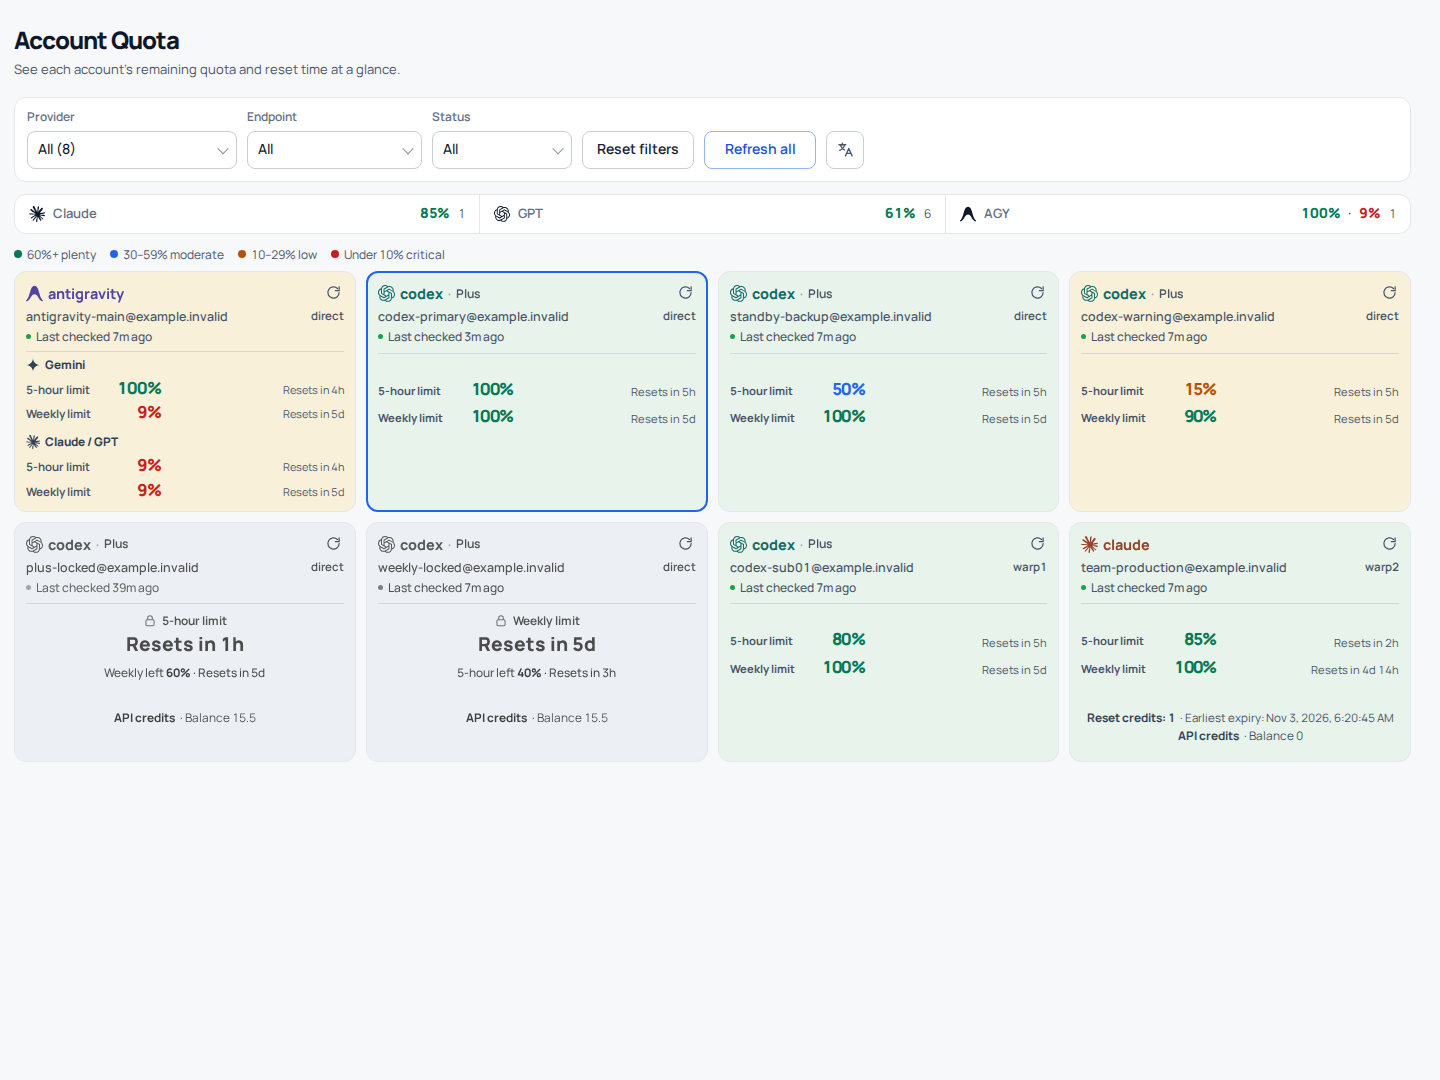
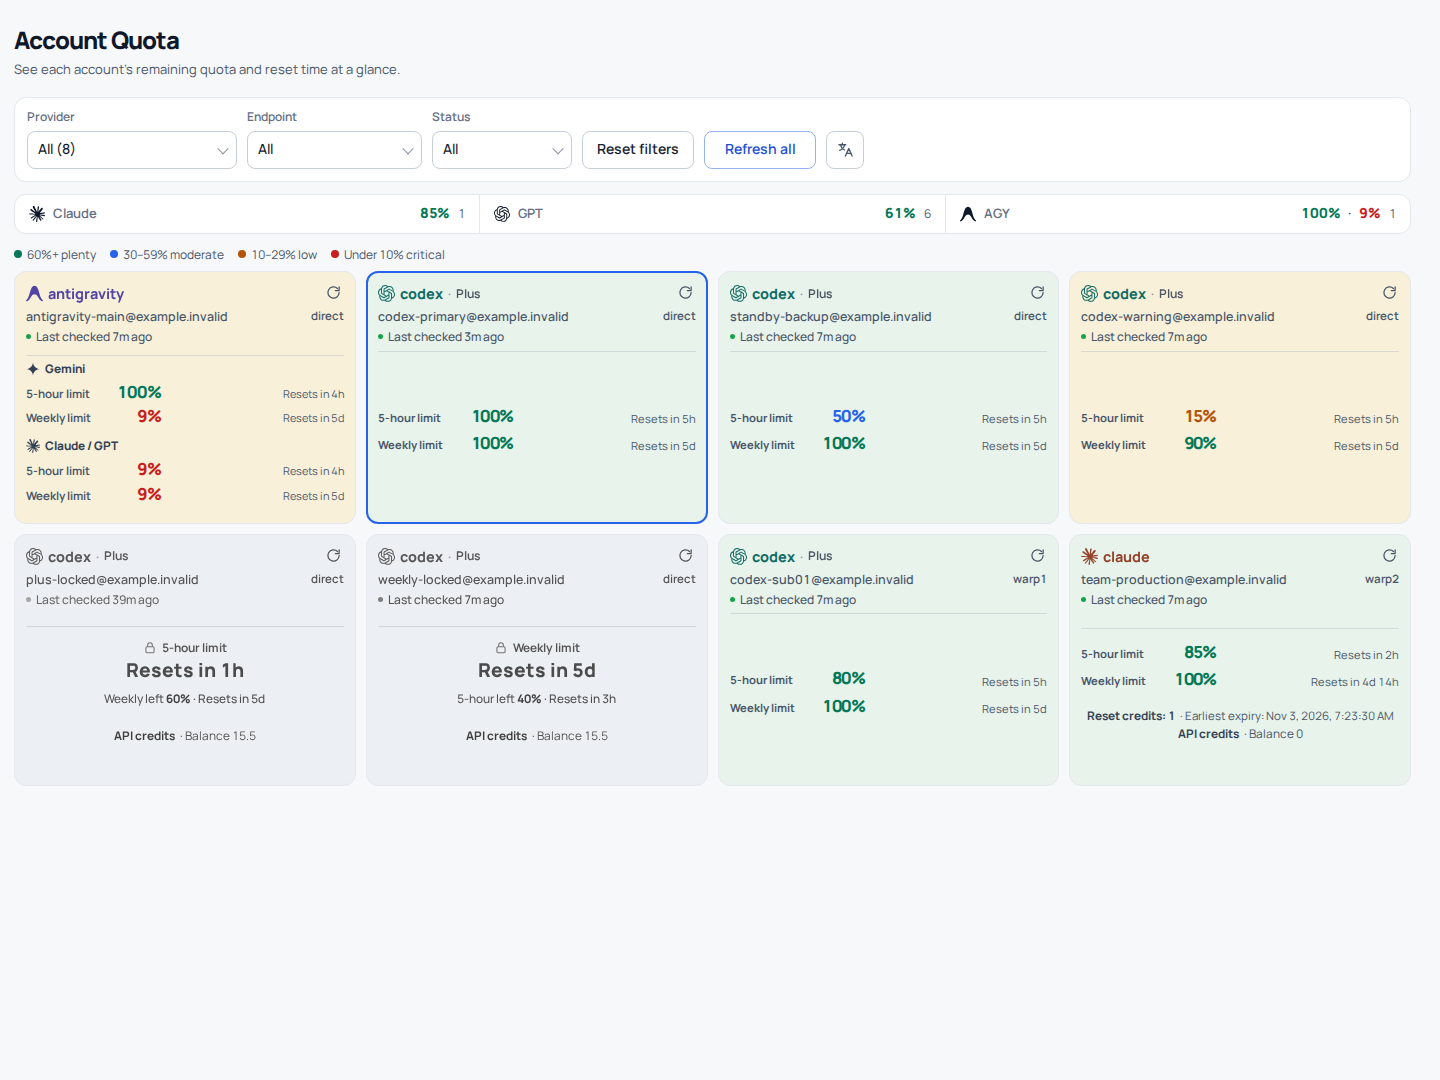
fix(dashboard): centre the card body evenly under the divider
- GPT/Claude: values, lock block or empty state (plus the credits caption) form one block centred
  in the space under the header divider; top and bottom gaps are equal (0px difference)
- antigravity body centred the same way (top/bottom differ by 1px)
- removes the reserved footer spacer that pushed content up and left an empty band at the bottom
- layout check: credits must stay inside the card padding box instead of being pinned to the bottom
- README screenshots refreshed

diff --git a/internal/dashboard/style.css b/internal/dashboard/style.css
@@ -561,3 +561,23 @@
   .ag-family-lock { gap: 1px; }
   .account-card:not([data-provider="antigravity"]):not(:has(.credit-summary))::after { flex-basis: 44px; }
   .account-card:not([data-provider="antigravity"]) .credit-summary { min-height: 44px; }
+
+  /* ===================== Card body: one rule for every provider and state =====================
+     Cards keep one shared height per row (tallest card wins). Inside every card the body under the
+     header divider is ONE block (values / lock / empty state, plus the credits caption if any) centred
+     vertically, so the free space is split evenly above and below instead of piling up at the bottom. */
+  .account-card::after, .account-card:not([data-provider="antigravity"])::after,
+  .account-card:not([data-provider="antigravity"]):not(:has(.credit-summary))::after { content: none; display: none; }
+  .account-card:not([data-provider="antigravity"]) .card-quota,
+  .account-card:not([data-provider="antigravity"]):has(.quota-lock-state) .card-quota,
+  .account-card:has(.quota-pending) .card-quota { flex: 1 1 auto; justify-content: center; padding: 12px 0 18px; margin: 0; }
+  .account-card:not([data-provider="antigravity"]) .quota-lock-state { padding: 0; }
+  .account-card:has(.quota-pending) .quota-pending { transform: none; padding: 0 8px; }
+  .account-card:has(.quota-pending) { padding-bottom: 10px; }
+  /* credits travel with the values: wrap them into the same centred block */
+  .account-card:not([data-provider="antigravity"]):has(.credit-summary) .card-quota { flex: 0 0 auto; margin-top: auto; padding-bottom: 0; }
+  .account-card:not([data-provider="antigravity"]) .credit-summary { min-height: 0; margin: 0 0 auto; padding: 12px 0 18px; justify-content: flex-start; }
+
+  /* Antigravity: same rule as GPT/Claude. The body (Gemini + Claude/GPT sections) is one block centred in
+     the free space under the divider; the tallest antigravity card defines the row height. */
+  .account-card[data-provider="antigravity"] .card-quota { flex: 1 1 auto; justify-content: center; padding: 4px 0 8px; margin: 0; }
